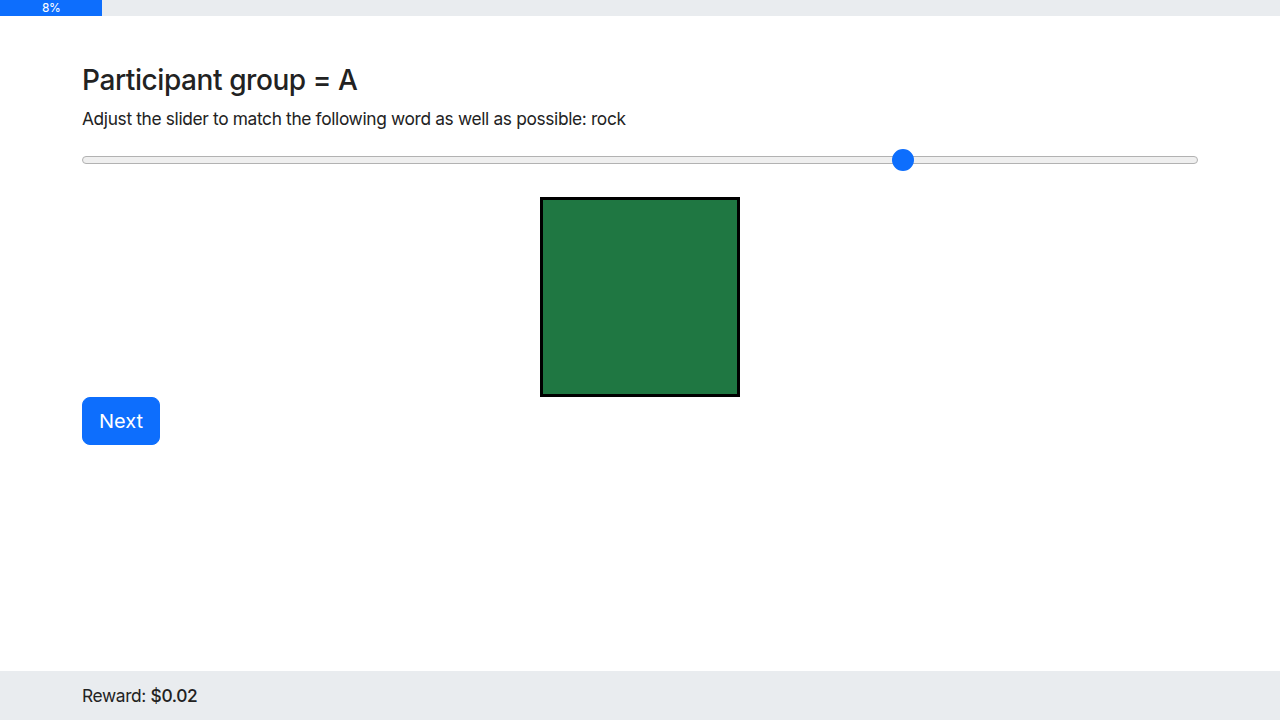
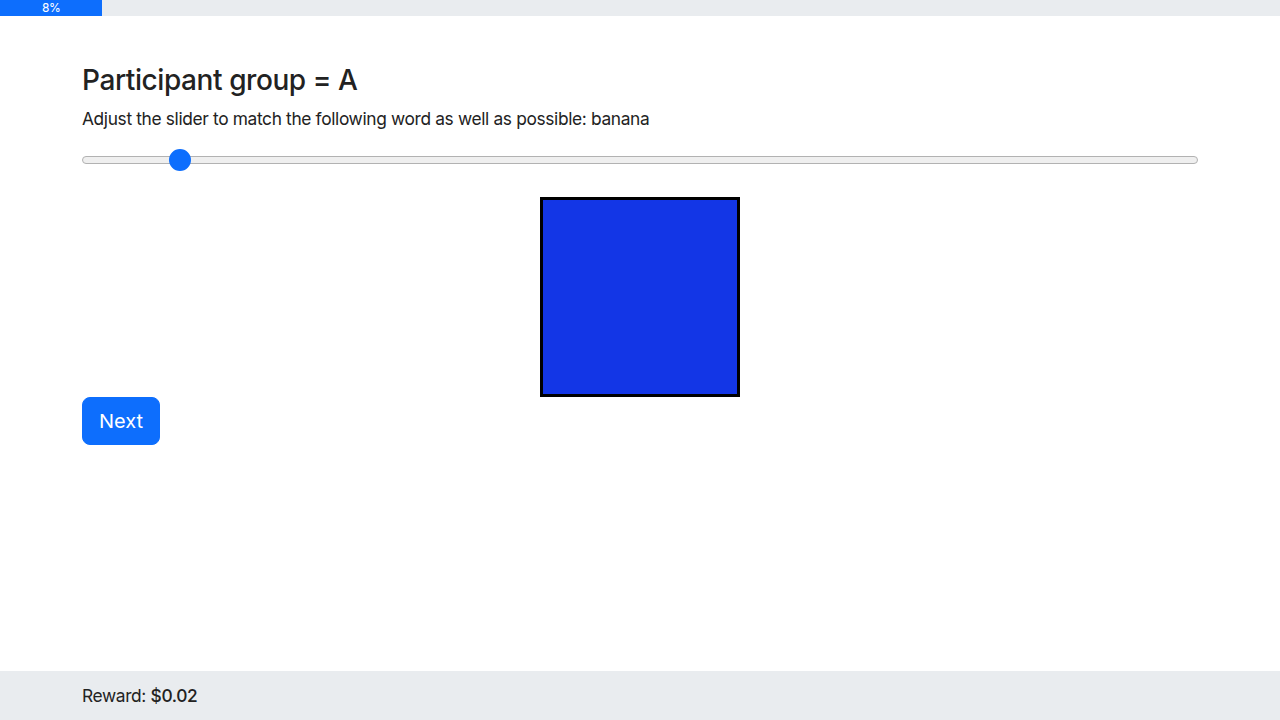
test: fix hybrid Gibbs participant recording

diff --git a/challenges/ai-human-hybrid-participants/attempts/2026-06-15-09-19/code/gibbs_hybrid/tests/participant-flow.spec.js b/challenges/ai-human-hybrid-participants/attempts/2026-06-15-09-19/code/gibbs_hybrid/tests/participant-flow.spec.js
@@ -10,6 +10,8 @@ const attemptDir = path.resolve(__dirname, "../../..");
 const evidenceDir = path.join(attemptDir, "evidence");
 const screenshotsDir = path.join(evidenceDir, "screenshots");
 const rawVideoDir = path.join(evidenceDir, "playwright-video");
+const sliderValues = [64, 128, 192, 32, 96, 160, 224, 80];
+let sliderStep = 0;
 
 fs.mkdirSync(screenshotsDir, { recursive: true });
 fs.mkdirSync(rawVideoDir, { recursive: true });
@@ -50,12 +52,14 @@ async function answerSlider(page) {
   if (count === 0) {
     return false;
   }
+  const value = String(sliderValues[sliderStep % sliderValues.length]);
+  sliderStep += 1;
   for (let index = 0; index < count; index += 1) {
-    await sliders.nth(index).evaluate((element) => {
-      element.value = "128";
+    await sliders.nth(index).evaluate((element, nextValue) => {
+      element.value = nextValue;
       element.dispatchEvent(new Event("input", { bubbles: true }));
       element.dispatchEvent(new Event("change", { bubbles: true }));
-    });
+    }, value);
   }
   await page.waitForTimeout(150);
   return true;